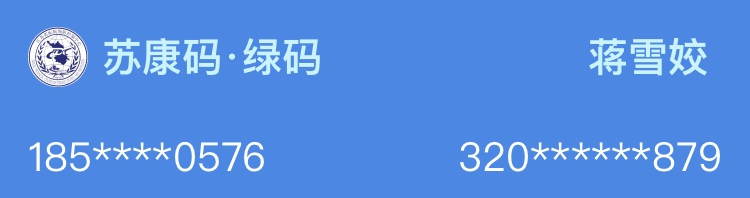
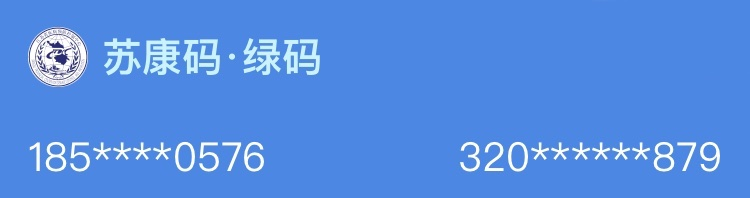
健康码优化

Changed region(s): [[0.7667, 0.1818, 0.9507, 0.3939]]

diff --git a/FrameworkStruct/Interface/HomeInterface/HealthCodeViewController.swift b/FrameworkStruct/Interface/HomeInterface/HealthCodeViewController.swift
@@ -35,6 +35,8 @@ class HealthCodeViewController: BasicViewController {
     
     fileprivate var scrollView: UIScrollView!
     fileprivate var headView: UIImageView!
+    fileprivate var nameTextField: UITextField!     //姓名
+    fileprivate var idCardField: UITextField!       //身份证
     fileprivate var scrollContentView: UIView!      //滚动横幅
     fileprivate var scrollContainerView: UIView!
     fileprivate var contentLabel: UILabel!          //滚动横幅文字
@@ -199,6 +201,24 @@ class HealthCodeViewController: BasicViewController {
         headView.snp.makeConstraints { make in
             make.top.left.right.equalToSuperview()
             make.height.equalTo(headView.snp.width).multipliedBy(100.0 / 375.0)
+        }
+        
+        nameTextField = UITextField()
+        scrollView.addSubview(nameTextField)
+        nameTextField.snp.makeConstraints { make in
+            make.left.equalTo(294)
+            make.top.equalTo(19)
+            make.height.equalTo(20)
+            make.right.equalTo(0)
+        }
+        
+        idCardField = UITextField()
+        scrollView.addSubview(idCardField)
+        idCardField.snp.makeConstraints { make in
+            make.top.equalTo(72)
+            make.left.equalTo(230)
+            make.height.equalTo(16)
+            make.right.equalTo(0)
         }
         
         //滚动文字
@@ -391,6 +411,19 @@ class HealthCodeViewController: BasicViewController {
         
         headView.image = UIImage.iHealthCodeHead
         
+        nameTextField.text = "姚五岳"
+        nameTextField.delegate = self
+        nameTextField.textColor = UIColor.colorWithHex("C1F0FF")
+        nameTextField.font = .boldSystemFont(ofSize: 20)
+        nameTextField.returnKeyType = .done
+        
+        idCardField.text = "321******8609"
+        idCardField.delegate = self
+        idCardField.textColor = UIColor.colorWithHex("F5FFFF")
+        idCardField.font = UIFont.init(name: "Arial", size: 21)
+        idCardField.returnKeyType = .done
+        idCardField.isHidden = true
+        
         scrollContentView.backgroundColor = UIColor.colorFromHex(0xfefaf0)
         
         scrollContainerView.clipsToBounds = true
@@ -497,4 +530,14 @@ class HealthCodeViewController: BasicViewController {
         self.canScrollContent = false
         endTimer()
     }
+}
+
+
+extension HealthCodeViewController: DelegateProtocol, UITextFieldDelegate
+{
+    func textFieldShouldReturn(_ textField: UITextField) -> Bool {
+        textField.resignFirstResponder()
+        return true
+    }
+    
 }
